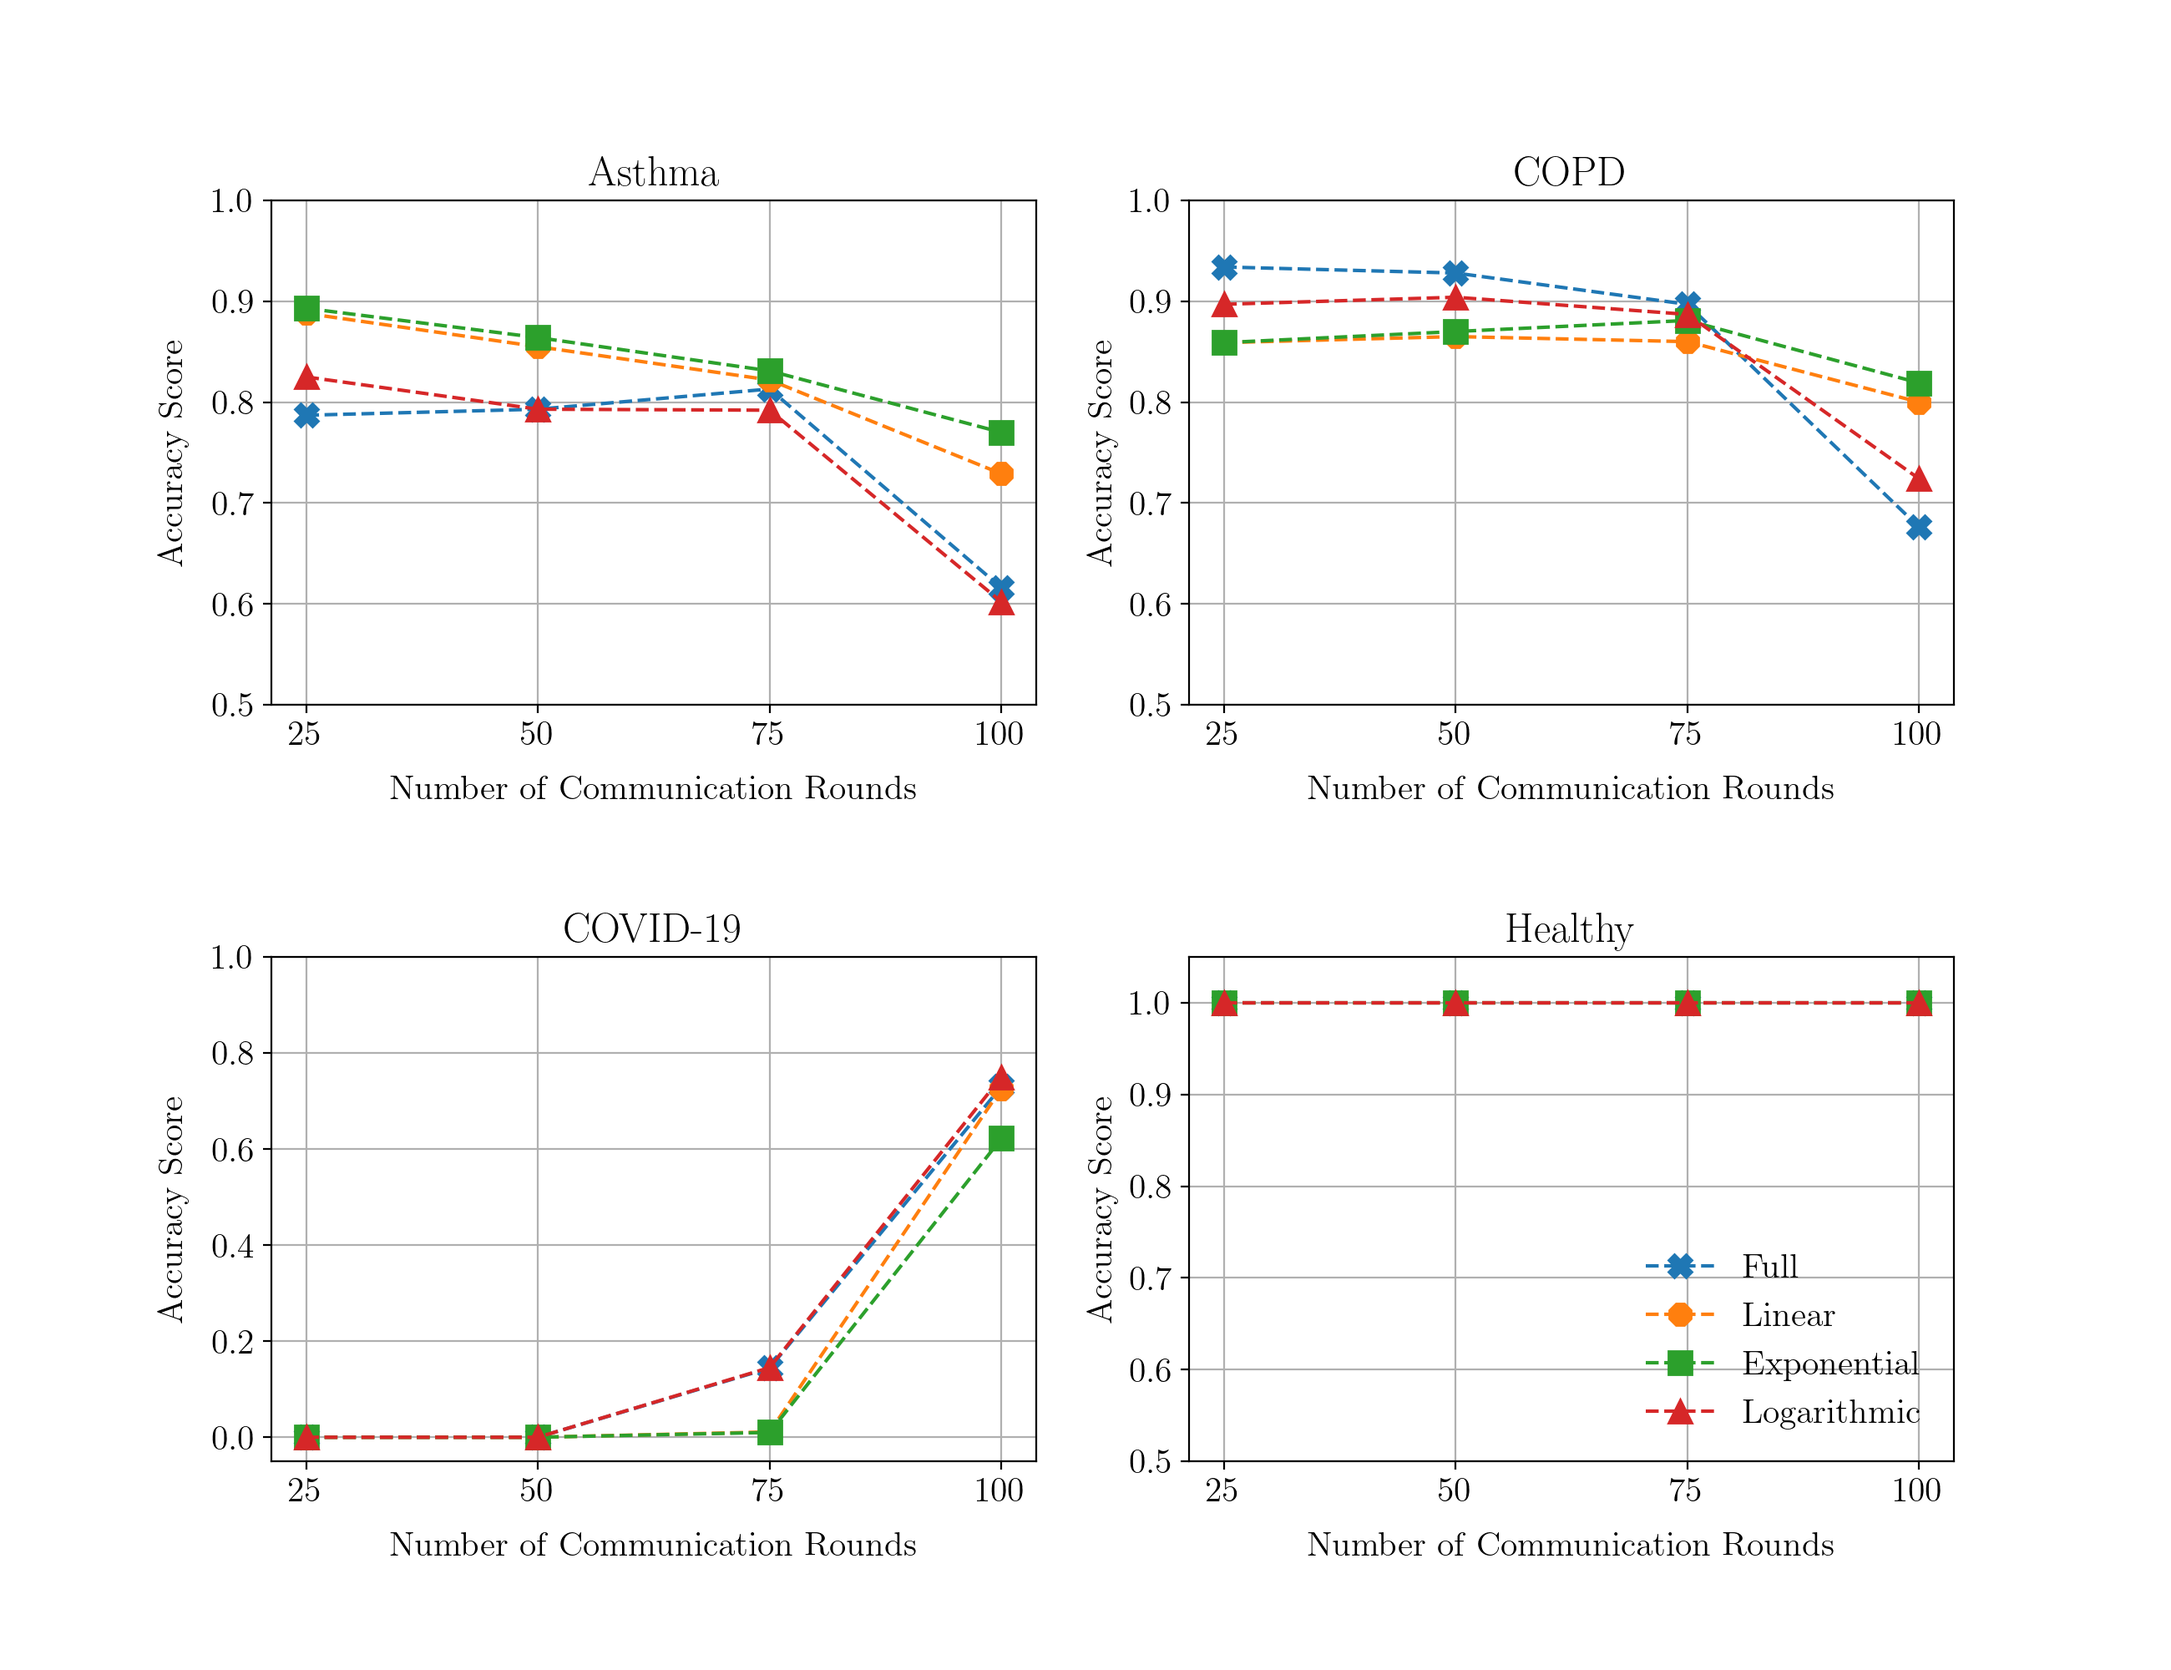
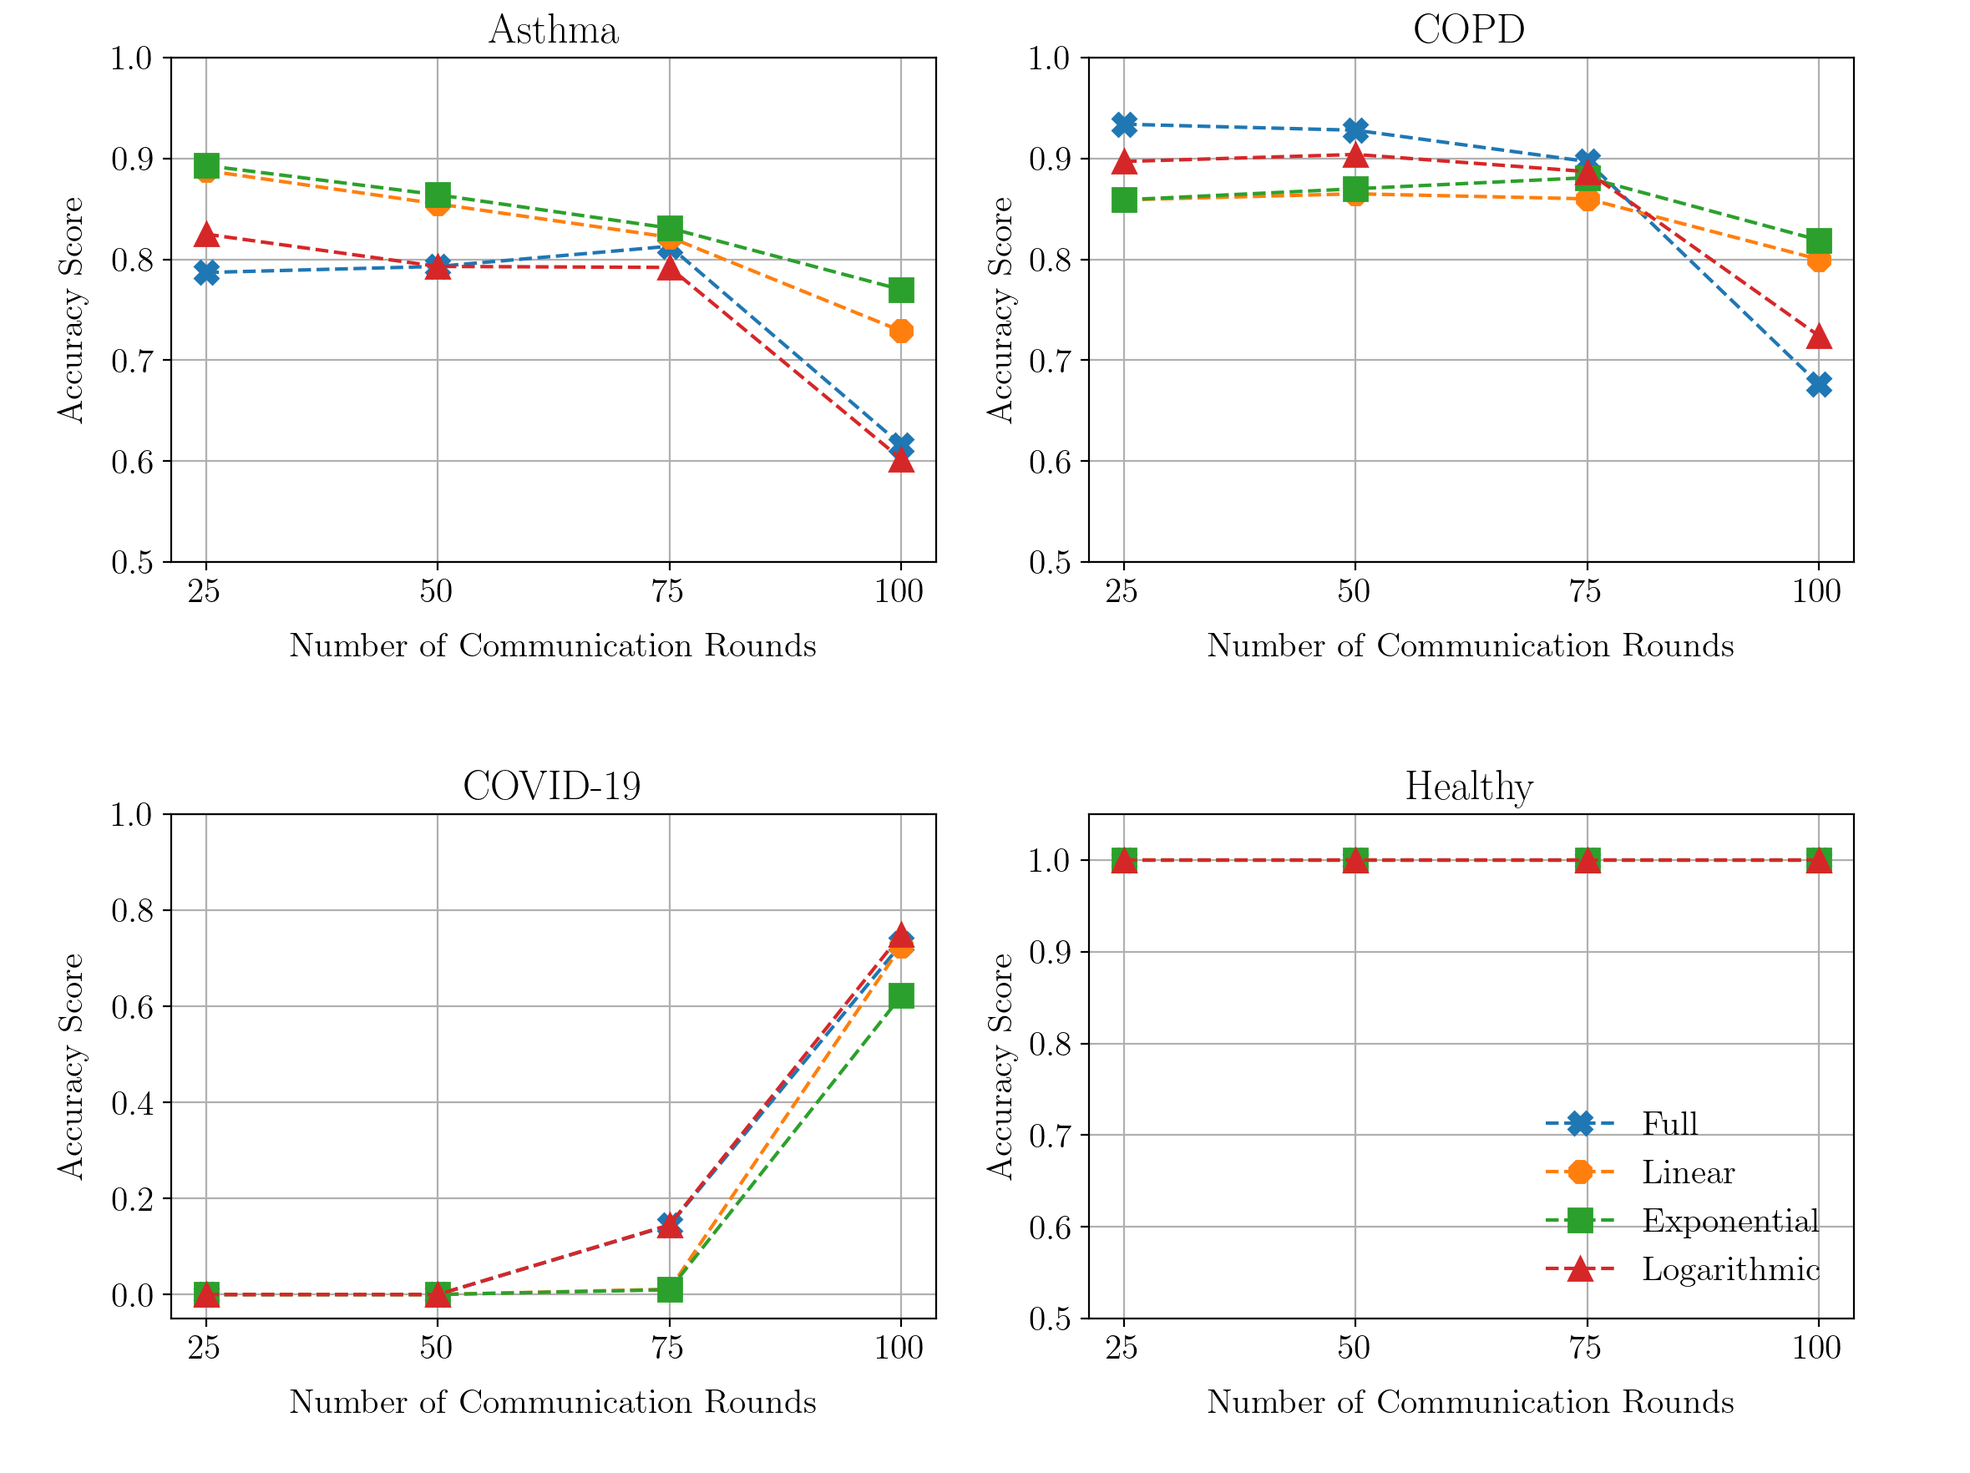
graphs and new readme

diff --git a/README.md b/README.md
@@ -1,14 +1,61 @@
 ## Federated Learning for Respiratory Disease Classification in Hypothetical Pandemic Scenario
 This repository consists of my master thesis in which we studied the capability of federated learning in hypothetical pandemic scenario over respiratory disease classification from audio signals captured from COPD, asthma, COVID-19 patients and healthy subjects.
 
-![](https://github.com/ceylanmesut/Federated-Learning-for-Respiratory-Disease-Classification-from-Audio-Recordings-in-Pandemic-Scenario/tree/main/plots/experimental_setup.png)
+<p align="center" width="100%">
+<img src="https://github.com/ceylanmesut/Federated-Learning-for-Respiratory-Disease-Classification-from-Audio-Recordings-in-Pandemic-Scenario/blob/main/plots/plots_disease_types.png" width=90%>
+</p>
 
 ### Abstract
 Federated Learning (FL) is a prominent machine learning paradigm that enables distributed algorithm training by exchanging gradient information between the server and edge devices without data access and storage, thus mitigating data privacy and confidentially restrictions. With the outbreak of the most recent global pandemic, COVID-19, utilization of distributed health data and collaborative efforts to develop artificial intelligence driven mechanisms gained tremendous importance in the healthcare domain to avert detrimental consequences. Despite various studies within the existing body of research in this scope, COVID-19 classification from audio recordings of the patients in a privacy-preserving fashion is undiscovered. To fill the research gap and align with these efforts, we deploy the FL scheme and formulate a hypothetical pandemic scenario in which cough is a symptom of spreading disease, mimicking the COVID-19 pandemic. We conduct a comprehensive analysis of the factors influencing this scenario and federated optimization performance such as the number of cough samples, participating patients, information exchange, and local epochs of edge devices. Based on our experiments, we propose a federated cough classifier algorithm that achieves 73% accuracy on COVID-19 and 75% overall classification performance, when 9 infected individual accumulates a total of 2535 cough samples over a 100-day period and edge devices train for 50 epochs and send their gradient information to the server model once a day. Our experiments and algorithm demonstrate the capabilities of federated learning in the hypothetical pandemic for the cough classification from audio recordings captured from smartphones task explicitly. As the first study in this scope, our work proposes a promising approach that can be further developed and employed as a pandemic detection instrument.
 
+### Respiratory Structure
+- `data`: A directory containing our dataset.
+- `models`: A directory including centralized, pretrained and federated cough classifiers.
+- `notebooks`: A directory containing the Jupyter notebooks that I used for exploratory data analysis and dimensionality reduction.
+- `plots`: The plots obtained during the thesis.
+- `src`: A directory containing utility Python snippets.
+- `study_data`: A directory containing data collection studies for respective patients.
+- `classifier.py`: A Python snippet to trained centralized and pretrained cough classifier.
+- `feature_extraction.py`:A Python snippet for extracting audio features from audio signals.
+- `feature_extraction.py`:A Python snippet for simulating pandemic scenario in privacy-preserving manner via federated training.
+- `generate_data_csv.py`:A Python snippet to create data csv file including cough paths, duration, patient ID and patient gender information.
+
+### Experimental Setup
+Here is the experiment setup we designed in my work.
+
+<p align="center" width="100%">
+<img src="https://github.com/ceylanmesut/Federated-Learning-for-Respiratory-Disease-Classification-from-Audio-Recordings-in-Pandemic-Scenario/blob/main/plots/experimental_setup.png" width=30%>
+<img src="https://github.com/ceylanmesut/Federated-Learning-for-Respiratory-Disease-Classification-from-Audio-Recordings-in-Pandemic-Scenario/blob/main/plots/data_increment.png" width=55%>
+</p>
+
 ### Dataset and Feature Embedding
 The dataset utilized in my work is subject to data privacy and confidentiality requirements, therefore I am not able to publicly share the dataset and corresponding feature embedding of my work.
-![](https://github.com/ceylanmesut/Federated-Learning-for-Respiratory-Disease-Classification-from-Audio-Recordings-in-Pandemic-Scenario/blob/main/plots/data_distribution.JPG)
+
+<p align="center" width="100%">
+    <img width="45%" src="https://github.com/ceylanmesut/Federated-Learning-for-Respiratory-Disease-Classification-from-Audio-Recordings-in-Pandemic-Scenario/blob/main/plots/data_distribution.JPG">
+    <img width="47%" src="https://github.com/ceylanmesut/Federated-Learning-for-Respiratory-Disease-Classification-from-Audio-Recordings-in-Pandemic-Scenario/blob/main/plots/feature_embedding.png">
+</p>
+
+### Results
+We demonstrate the results of the various factors impacting federated optimization paradigm.
+
+<p align="center" width="100%">
+    <img width="31.4%" src="https://github.com/ceylanmesut/Federated-Learning-for-Respiratory-Disease-Classification-from-Audio-Recordings-in-Pandemic-Scenario/blob/main/plots/r1.png">
+    <img width="37%" src="https://github.com/ceylanmesut/Federated-Learning-for-Respiratory-Disease-Classification-from-Audio-Recordings-in-Pandemic-Scenario/blob/main/plots/r2.png">
+    <img width="27.75%" src="https://github.com/ceylanmesut/Federated-Learning-for-Respiratory-Disease-Classification-from-Audio-Recordings-in-Pandemic-Scenario/blob/main/plots/r3.png">
+</p>
+
+Performance of the server model at the respective communication rounds and various data increment types is indicated below table. The best performance achieved on each disease type and respective communication round are highlighted in bold.
+
+<p align="center" width="100%">
+    <img width="95%" src="https://github.com/ceylanmesut/Federated-Learning-for-Respiratory-Disease-Classification-from-Audio-Recordings-in-Pandemic-Scenario/blob/main/plots/r4.png">
+</p>
+
+Below graphs display the effect of number of communication rounds to model performance during federated optimization.
+
+<p align="center" width="100%">
+    <img width="100%" src="https://github.com/ceylanmesut/Federated-Learning-for-Respiratory-Disease-Classification-from-Audio-Recordings-in-Pandemic-Scenario/blob/main/plots/acc_per_comm_rounds_diseses.png">
+</p>
 
 ### License
-This work is license under MIT License.
+This work is licensed under MIT License, however it is subject to author approval and permission for public and private usage.
